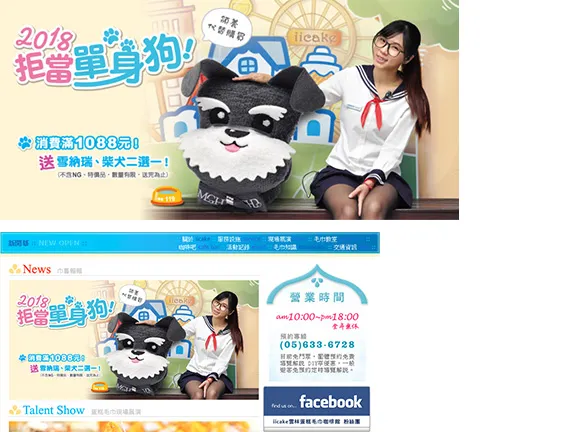
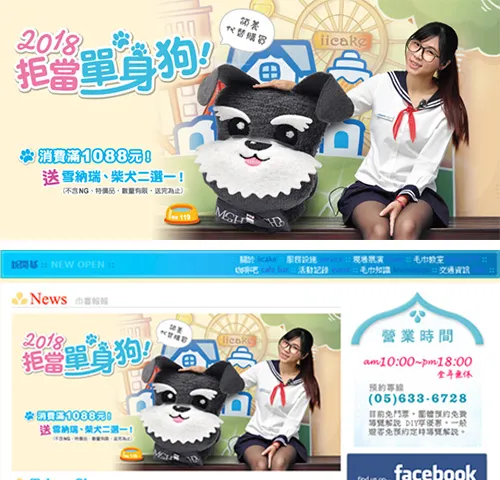
調整照片尺寸及位置

diff --git a/portfolio-3-graphic.html b/portfolio-3-graphic.html
@@ -1,0 +1,248 @@
+<!doctype html>
+<html lang="zh-Hant">
+<head>
+  <meta charset="utf-8">
+  <meta name="viewport" content="width=device-width, initial-scale=1">
+  <meta name="description" content="平面設計與產品設計作品詳情頁">
+  <title>2018 拒當單身狗｜檔期視覺整合</title>
+
+  <!-- Fonts -->
+  <link href="https://fonts.googleapis.com" rel="preconnect">
+  <link href="https://fonts.gstatic.com" rel="preconnect" crossorigin>
+  <link href="https://fonts.googleapis.com/css2?family=Roboto:ital,wght@0,100;0,300;0,400;0,500;0,700;0,900;1,100;1,300;1,400;1,500;1,700;1,900&family=Raleway:ital,wght@0,100;0,200;0,300;0,400;0,500;0,600;0,700;0,800;0,900;1,100;1,200;1,300;1,400;1,500;1,600;1,700;1,800;1,900&family=Quicksand:wght@300;400;500;600;700&display=swap" rel="stylesheet">
+
+  <!-- 1. 引入 Bootstrap 與圖示庫 -->
+  <link href="assets/vendor/bootstrap/css/bootstrap.min.css" rel="stylesheet">
+  <link href="assets/vendor/bootstrap-icons/bootstrap-icons.css" rel="stylesheet">
+
+  <!-- 2. 引入範本主樣式（控制上方可展開收闔的導覽列） -->
+  <link href="assets/css/main.css" rel="stylesheet">
+
+  <!-- 3. 引入詳情頁專用樣式（只保留一行即可） -->
+  <link href="assets/css/portfolio-detail.css" rel="stylesheet">
+</head>
+
+<body class="portfolio-detail-page">
+  <a class="skip-link" href="#main-content">跳到主要內容</a>
+
+  <!-- 恢復原本範本的 Header 結構 -->
+  <header id="header" class="header d-flex align-items-center sticky-top">
+    <div class="container position-relative d-flex align-items-center justify-content-between">
+
+      <a href="index.html" class="logo d-flex align-items-center me-auto me-xl-0">
+        <h1 class="sitename">Mary's Kitchen</h1>
+      </a>
+
+      <nav id="navmenu" class="navmenu">
+        <ul>
+          <li><a href="index.html#hero">Home</a></li>
+          <li><a href="index.html#about">About</a></li>
+          <li><a href="index.html#resume">Resume</a></li>
+          <li><a href="index.html#portfolio" class="active">Portfolio</a></li>
+          <li><a href="index.html#services">Services</a></li>
+          <li class="dropdown"><a href="#"><span>Dropdown</span> <i class="bi bi-chevron-down toggle-dropdown"></i></a>
+            <ul>
+              <li><a href="#">Dropdown 1</a></li>
+              <li class="dropdown"><a href="#"><span>Deep Dropdown</span> <i class="bi bi-chevron-down toggle-dropdown"></i></a>
+                <ul>
+                  <li><a href="#">Deep Dropdown 1</a></li>
+                  <li><a href="#">Deep Dropdown 2</a></li>
+                  <li><a href="#">Deep Dropdown 3</a></li>
+                  <li><a href="#">Deep Dropdown 4</a></li>
+                  <li><a href="#">Deep Dropdown 5</a></li>
+                </ul>
+              </li>
+              <li><a href="#">Dropdown 2</a></li>
+              <li><a href="#">Dropdown 3</a></li>
+              <li><a href="#">Dropdown 4</a></li>
+            </ul>
+          </li>
+          <li><a href="index.html#contact">Contact</a></li>
+        </ul>
+        <i class="mobile-nav-toggle d-xl-none bi bi-list"></i>
+      </nav>
+
+    </div>
+  </header>
+
+
+  <main id="main-content">
+    <section class="page-intro container">
+      <nav class="breadcrumbs" aria-label="頁面路徑">
+        <a href="index.html">Home</a>
+        <span aria-hidden="true">/</span>
+        <a href="index.html#portfolio">Portfolio</a>
+        <span aria-hidden="true">/</span>
+        <span aria-current="page">Graphic Design</span>
+      </nav>
+
+      <p class="eyebrow">Graphic Design · Campaign Visual</p>
+      <h1>2018 拒當單身狗</h1>
+      <p class="page-lead">以主題插畫與角色溝通節慶活動，延伸至門市、社群與官網等不同接觸點。</p>
+    </section>
+
+    <section class="project-meta-wrap container" aria-label="專案資訊">
+      <dl class="project-meta">
+        <div>
+          <dt>Project Type</dt>
+          <dd>Graphic Design</dd>
+        </div>
+        <div>
+          <dt>Campaign</dt>
+          <dd>檔期活動視覺</dd>
+        </div>
+        <div>
+          <dt>Output</dt>
+          <dd>看板、A3 海報、FB Banner、官網 Banner</dd>
+        </div>
+        <div>
+          <dt>Year</dt>
+          <dd>2018</dd>
+        </div>
+      </dl>
+    </section>
+
+    <section class="hero-media container">
+      <!-- 將圖片路徑換成你的實際檔案，例如 assets/img/portfolio/graphic-design/01-hero.webp -->
+      <figure class="media-frame media-frame--hero">
+        <img src="assets/img/portfolio/graphic design/3-graphic design hero.webp" alt="2018 拒當單身狗檔期活動主視覺，人物與雪納瑞角色位於畫面中央" loading="eager">
+      </figure>
+    </section>
+
+    <section class="content-section container overview-section">
+      <div class="section-heading">
+        <p class="eyebrow">Project Overview</p>
+        <h2>讓同一個主視覺，適應不同的觀看情境。</h2>
+      </div>
+      <div class="overview-copy">
+        <p>本案以「拒當單身狗」為活動主題，將角色、標語與節慶優惠整理成一套可延伸的視覺系統。設計重點不只是完成一張主圖，而是讓同一個主視覺在不同尺寸與媒體上仍然容易辨識，並維持一致的活動氛圍。</p>
+      </div>
+    </section>
+
+    <section class="content-section container two-column-section">
+      <article>
+        <p class="eyebrow">The Brief</p>
+        <h2>建立活動記憶點</h2>
+        <p>以高辨識度的標題、角色與色彩，快速傳達活動主題，讓消費者在門市與社群版位中能立即注意到活動。</p>
+      </article>
+      <article>
+        <p class="eyebrow">The Design Focus</p>
+        <h2>適應不同版位</h2>
+        <p>依照直式海報、橫式看板與數位橫幅的閱讀距離重新安排資訊層級，保留主標、人物與優惠訊息的清楚關係。</p>
+      </article>
+    </section>
+
+    <section class="content-section container">
+      <div class="section-heading section-heading--center">
+        <p class="eyebrow">Deliverables</p>
+        <h2>Final Design Outputs</h2>
+        <p>本案完成的主視覺細節與不同版位設計稿。</p>
+      </div>
+
+      <div class="gallery gallery--two">
+        <!-- 1. 主標、角色與插畫細節 -->
+        <figure class="media-card media-card--detail">
+          <img src="assets/img/portfolio/graphic design/3-graphic design sloganjpg.webp" alt="活動主標與角色插畫細節" loading="lazy">
+          <figcaption>
+            <strong>Visual Detail</strong>
+            <span>主標、角色與插畫細節</span>
+          </figcaption>
+        </figure>
+
+        <!-- 2. 印刷輸出／門市張貼 -->
+        <figure class="media-card">
+          <img src="assets/img/portfolio/graphic design/3-graphic design poster.webp" alt="A3 直式活動海報" loading="lazy">
+          <figcaption>
+            <strong>A3 Poster</strong>
+            <span>印刷輸出／門市張貼</span>
+          </figcaption>
+        </figure>
+      </div>
+
+      <div class="gallery gallery--two gallery--last">
+        <!-- 3. Website Banner -->
+        <figure class="media-card">
+          <img src="assets/img/portfolio/graphic design/3-graphic design kv banner.webp" alt="官網首頁橫幅設計" loading="lazy">
+          <figcaption>
+            <strong>Website Banner</strong>
+            <span>官網 Banner／首頁曝光</span>
+          </figcaption>
+        </figure>
+
+        <!-- 4. Facebook Banner -->
+        <figure class="media-card">
+          <img src="assets/img/portfolio/graphic design/3-graphic design fb banner.webp" alt="Facebook 橫幅設計與社群版位展示" loading="lazy">
+          <figcaption>
+            <strong>Facebook Banner</strong>
+            <span>社群橫幅／數位曝光</span>
+          </figcaption>
+        </figure>
+      </div>
+
+    </section>
+
+    <section class="content-section container detail-section">
+      <div class="section-heading">
+        <p class="eyebrow">Detail Notes</p>
+        <h2>在每個尺寸中，保留同一個視覺焦點。</h2>
+      </div>
+      <div class="detail-copy">
+        <p>主視覺以角色與活動標題作為第一閱讀層，優惠與活動日期作為第二閱讀層。延伸到不同版位時，優先保留角色表情、主標與品牌識別，再依畫面比例調整裝飾元素與資訊位置。</p>
+      </div>
+    </section>
+
+    <!--
+      【產品設計作品使用方式】
+      將上方 Deliverables 區塊中的圖片與文字改成以下內容即可：
+      1. Product Photography｜正面外觀／側面輪廓／展開後尺寸／包裝狀態
+      2. Design Drawings｜三視圖／尺寸標註／配色與結構示意
+      3. Material & Detail｜布料、繡花、印刷、車縫或包裝細節
+      建議產品頁的第一張主圖使用乾淨的產品主照片，設計圖放在成品照片之後。
+    -->
+
+    <section class="project-navigation container" aria-label="作品導覽">
+      <a class="project-nav-item" href="portfolio-product.html">
+        <span class="project-nav-label">Previous Project</span>
+        <strong>精典泰迪方型蛋糕毛巾</strong>
+      </a>
+      <a class="project-nav-item project-nav-item--center" href="index.html#portfolio">
+        <span class="project-nav-label">Back to</span>
+        <strong>All Projects</strong>
+      </a>
+      <a class="project-nav-item project-nav-item--right" href="portfolio-next.html">
+        <span class="project-nav-label">Next Project</span>
+        <strong>巾典午茶時刻</strong>
+      </a>
+    </section>
+  </main>
+
+  <footer id="footer" class="footer">
+
+    <div class="container">
+      <div class="copyright text-center ">
+        <p>© <span>Copyright</span> <strong class="px-1 sitename">Mary's Kitchen</strong> <span>All Rights Reserved</span></p>
+      </div>
+      <div class="social-links d-flex justify-content-center">
+        <a href="https://www.behance.net/mydesign0520" target="_blank" rel="noopener noreferrer"><i class="bi bi-behance"></i></a>
+        <a href="https://pin.it/3gfOY3Hnw" target="_blank" rel="noopener noreferrer"><i class="bi bi-pinterest"></i></a>
+        <a href="https://www.instagram.com/meteor0329?obrf=MWtwZTVicXhoZHBk" target="_blank" rel="noopener noreferrer"><i class="bi bi-instagram"></i></a>
+      </div>
+      <div class="credits">
+        <!-- All the links in the footer should remain intact. -->
+        <!-- You can delete the links only if you've purchased the pro version. -->
+        <!-- Licensing information: https://bootstrapmade.com/license/ -->
+        <!-- Purchase the pro version with working PHP/AJAX contact form: [buy-url] -->
+        Designed by <a href="https://bootstrapmade.com/">BootstrapMade</a> | <a href="https://bootstrapmade.com/tools/">DevTools</a>
+      </div>
+    </div>
+
+  </footer>
+
+  <a class="scroll-top" href="#main-content" aria-label="回到頁面頂端">↑</a>
+
+  <!-- Main JS File -->  
+<script src="assets/vendor/bootstrap/js/bootstrap.bundle.min.js"></script>
+<script src="assets/js/main.js"></script>  
+
+</body>
+</html>

diff --git a/assets/css/portfolio-detail.css b/assets/css/portfolio-detail.css
@@ -238,17 +238,23 @@ h2 {
   background: var(--surface-color);
 }
 
+/* 找到原本這段並修改 */
 .media-frame img,
 .media-card img {
   aspect-ratio: 4 / 3;
-  object-fit: cover;
+  object-fit: contain;
+  object-position: left bottom; /* 新增這行：讓圖片靠左對齊文案、靠下貼近說明文字 */
   transition: transform 500ms ease;
 }
+
+
 
 .media-frame--hero img {
   aspect-ratio: 16 / 8.5; /* 維持原本的寬扁比例 */
   object-fit: contain;    /* 縮小圖片以完整塞進框內，不裁切 */
+  object-position: center; /* 新增這行：讓 Hero 主圖單獨保持水平與垂直置中 */
 }
+
 
 .media-frame:hover img,
 .media-card:hover img {

diff --git a/index.html b/index.html
@@ -647,7 +647,7 @@
                       <a href="assets/img/portfolio/graphic design/3-graphic design.webp" class="glightbox zoom-link" data-gallery="gallery-graphic" title="2018拒當單身狗">
                         <i class="bi bi-zoom-in"></i>
                       </a>
-                      <a href="portfolio-graphic.html" class="details-link" title="View Project Details">
+                      <a href="portfolio-3-graphic.html" class="details-link" title="View Project Details">
                         <i class="bi bi-arrow-right"></i>
                       </a>
                     </div>
